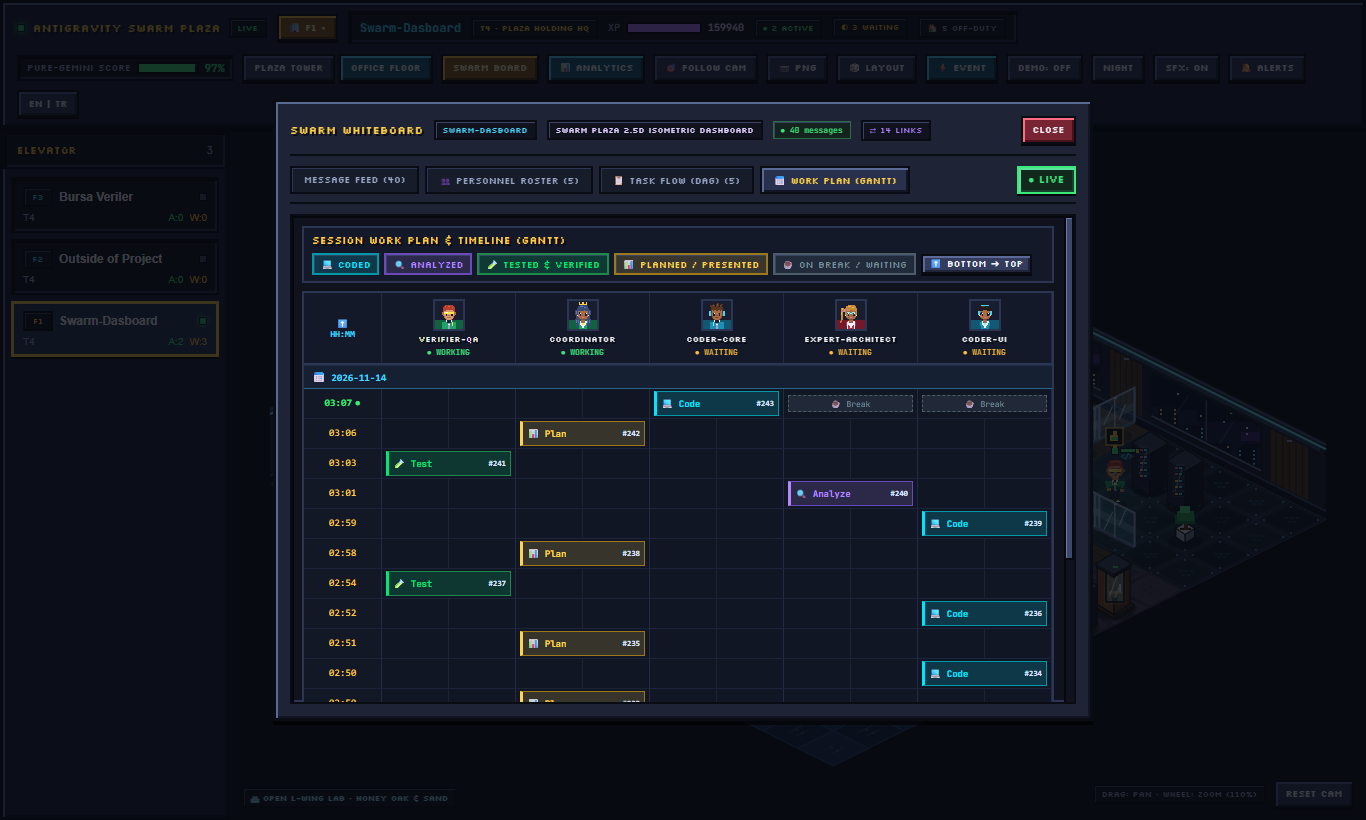
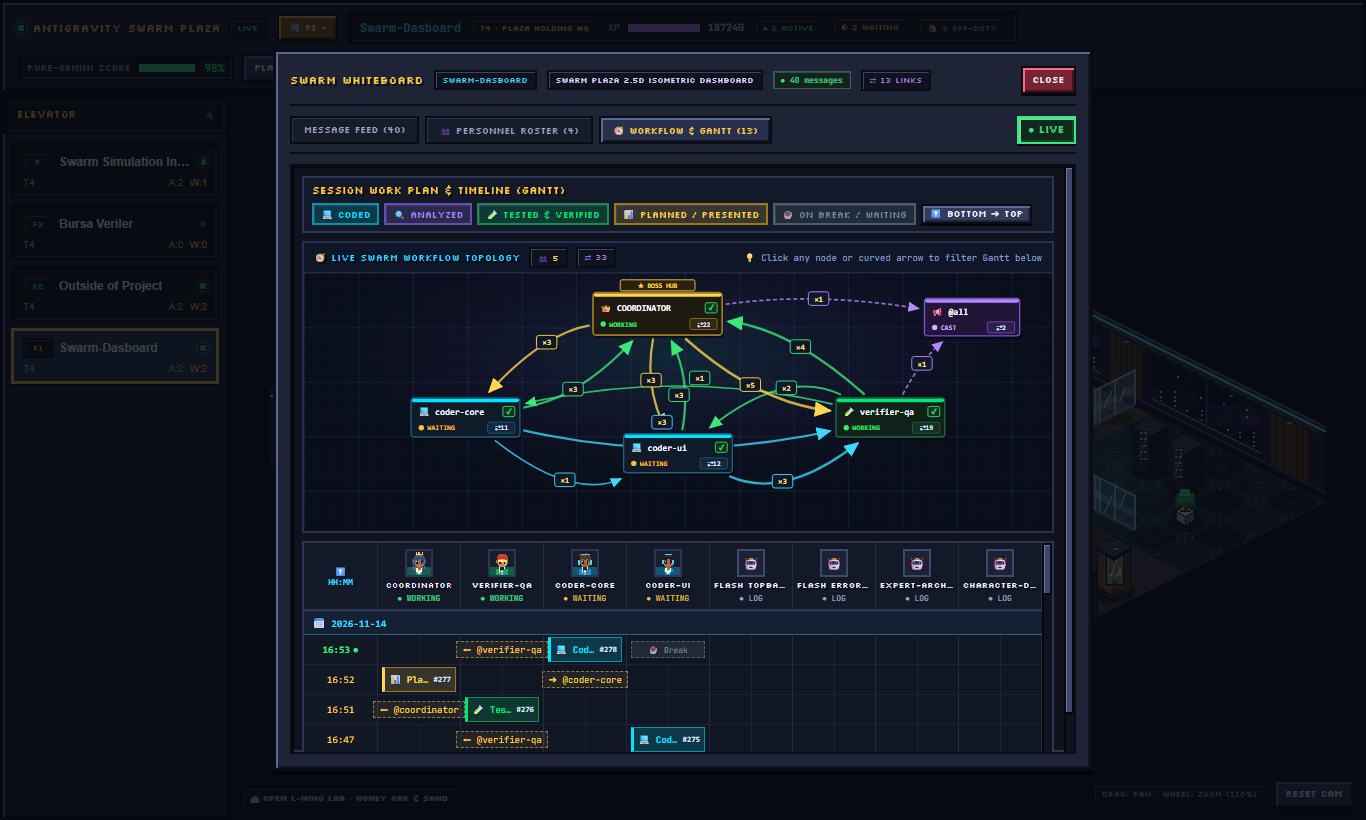
release: v1.3.2 unified Workflow & Gantt Bezier diagram, error inspection flow, and refreshed docs

diff --git a/README.tr.md b/README.tr.md
@@ -2,7 +2,7 @@
 
 [![CI](https://github.com/akinba/antigravity-swarm-plaza/actions/workflows/ci.yml/badge.svg)](https://github.com/akinba/antigravity-swarm-plaza/actions/workflows/ci.yml)
 [![Release](https://img.shields.io/github/v/release/akinba/antigravity-swarm-plaza?include_prereleases)](https://github.com/akinba/antigravity-swarm-plaza/releases)
-![Version](https://img.shields.io/badge/version-v1.3.1-ffd147)
+![Version](https://img.shields.io/badge/version-v1.3.2-ffd147)
 
 [🇬🇧 **English**](README.md) | 🇹🇷 **Türkçe** | [🇨🇳 **简体中文**](README.zh-CN.md)
 
@@ -118,7 +118,12 @@ flowchart LR
 
 ---
 
-## 🌟 Temel Yetenekler & Yenilikler (v1.3.1)
+## 🌟 Temel Yetenekler & Yenilikler (v1.3.2)
+
+- **🧭 Kavisli Bezier SVG Diyagramlı Birleşik İş Akışı & Dikey Gantt (`🧭 İŞ AKIŞI & GANTT`):**
+  - Etkileşimli `@mention` devir topolojisi ile Dikey Gantt zaman çizelgesini tek sekmede (`WorkflowDiagramSvg.tsx`) birleştirir; `★ BOSS HUB`, ayrı `@all` yayın düğümü, rol renkli ajan kartları, çakışmasız kuadratik Bezier okları (`×N` sayaç rozetleri) ve tıklandığında alttaki kaydırılabilir `HH:MM` Gantt satırlarını anında süzen çift yönlü senkronizasyon sunar.
+- **🚨 Tıklanabilir Üst Bar `! N` Hata Rozeti, Akıllı Uyarı Merkezi & `📜 Loglara Git` İnceleme Akışı:**
+  - Kattaki aktif çalışanlarda hata veya takılma olduğunda `TopHud` üzerinde yanıp sönen kırmızı **`! N`** rozeti görünür; tıklandığında `×N` gruplama, önem derecesi filtreleri ve **`🔍 AJANI İNCELE`** butonu içeren `AlertHistoryModal` açılır. İncelenen ajanın RPG Kartı en üstte kırmızı hata kutusu (`⚠ Hata tespit edildi • N ardışık hata`), `HP` rozeti ve `ERROR` satırlarını kırmızı vurgulayan **`📜 LOGLARA GİT`** butonu sunar.
 
 - **⚙ Oyun Tarzı Grafik & Sistem Ayarları + Sadeleştirilmiş Üst Bar:**
   - Tek tıkla seçilebilen hazır performans profilleri (**`⚡ Eski Akıcı 60 FPS`** varsayılan, `⚖ Dengeli 30 FPS`, `🌱 Güç Tasarrufu Eco`, `🔥 Ultra Native`), Çözünürlük Ölçeği (`0.75x` / `1.0x` / `2.0x` / `Native DPR`), Kenar Düzeltme (`Piksel Keskin` / `Yumuşak Smooth`), Kare Hızı Limiti (`Eco 14–24` / `30` / `60` / `Sınırsız`), Statik Mimari Önbelleği anahtarı ve **Canlı FPS** göstergesi içeren **`⚙ AYARLAR`** penceresi.

diff --git a/README.zh-CN.md b/README.zh-CN.md
@@ -4,7 +4,7 @@
 
 [![CI](https://github.com/akinba/antigravity-swarm-plaza/actions/workflows/ci.yml/badge.svg)](https://github.com/akinba/antigravity-swarm-plaza/actions/workflows/ci.yml)
 [![Release](https://img.shields.io/github/v/release/akinba/antigravity-swarm-plaza?include_prereleases)](https://github.com/akinba/antigravity-swarm-plaza/releases)
-![Version](https://img.shields.io/badge/version-v1.3.1-ffd147)
+![Version](https://img.shields.io/badge/version-v1.3.2-ffd147)
 ![Node](https://img.shields.io/badge/node-%3E%3D22.5.0-3be87a)
 ![License](https://img.shields.io/badge/license-MIT-3cd8ff)
 ![Sidecar](https://img.shields.io/badge/Sidecar-Ready-b07cff)
@@ -125,7 +125,12 @@ flowchart LR
 
 ---
 
-## 🌟 核心特性与新功能 (Core Features & v1.3.1)
+## 🌟 核心特性与新功能 (Core Features & v1.3.2)
+
+- **🧭 弧形贝塞尔 SVG 拓扑与纵向甘特图一体化视图 (`🧭 WORKFLOW & GANTT`)：**
+  - 将交互式 `@mention` 交接拓扑图与纵向甘特时间线合二为一（`WorkflowDiagramSvg.tsx`），采用半圆蓝图布局（`★ BOSS HUB`、`@all` 广播节点、按角色着色的智能体卡片）、防重叠二次贝塞尔箭头与 `×N` 频次徽章，并支持点击节点/连线实时联动筛选下方可滚动的 `HH:MM` 甘特行。
+- **🚨 顶部栏可点击 `! N` 告警徽章、智能告警中心与 `📜 GO TO LOGS` 排障流：**
+  - 当楼层活跃智能体出现错误或健康停滞时，`TopHud` 顶部栏会亮起红色 **`! N`** 徽章；点击即可打开支持 `×N` 分组与严重级别筛选的 `AlertHistoryModal`，点击 **`🔍 INSPECT AGENT`** 可直达对应智能体 RPG 卡片顶部的红色错误横幅（`⚠ Error detected • N consecutive errors`）、`HP` 徽章以及一键高亮 `ERROR` 日志行的 **`📜 GO TO LOGS`** 按钮。
 
 - **⚙ 游戏级图形与系统设置 + 精简顶部工具栏：**
   - 配备独立 **`⚙ SETTINGS`** 弹窗，支持一键切换性能预设（默认 **`⚡ 经典流畅 60 FPS`**、`⚖ 均衡 30 FPS`、`🌱 省电 Eco`、`🔥 极致 Native`）、分辨率缩放（`0.75x` / `1.0x` / `2.0x` / `Native DPR`）、抗锯齿（`像素锐利` / `平滑`）、帧率上限（`Eco 14–24` / `30` / `60` / `无限制`）、静态建筑缓存开关及 **实时 FPS** 指示器。

diff --git a/README.md b/README.md
@@ -2,7 +2,7 @@
 
 [![CI](https://github.com/akinba/antigravity-swarm-plaza/actions/workflows/ci.yml/badge.svg)](https://github.com/akinba/antigravity-swarm-plaza/actions/workflows/ci.yml)
 [![Release](https://img.shields.io/github/v/release/akinba/antigravity-swarm-plaza?include_prereleases)](https://github.com/akinba/antigravity-swarm-plaza/releases)
-![Version](https://img.shields.io/badge/version-v1.3.1-ffd147)
+![Version](https://img.shields.io/badge/version-v1.3.2-ffd147)
 
 🇬🇧 **English** | [🇹🇷 **Türkçe**](README.tr.md) | [🇨🇳 **简体中文**](README.zh-CN.md)
 
@@ -118,7 +118,12 @@ flowchart LR
 
 ---
 
-## 🌟 Key Features & What's New (v1.3.1)
+## 🌟 Key Features & What's New (v1.3.2)
+
+- **🧭 Unified Workflow & Vertical Gantt (`🧭 WORKFLOW & GANTT`) with Curved Bezier SVG Topology:**
+  - Combines the interactive `@mention` handoff topology and Vertical Gantt timeline into a single unified tab (`WorkflowDiagramSvg.tsx`), featuring an amphitheater blueprint layout (`★ BOSS HUB`, `@all` broadcast node, role-colored agent cards), non-overlapping quadratic Bezier arrows with `×N` frequency badges, and bidirectional click-to-filter sync with the scrollable `HH:MM` Gantt rows below.
+- **🚨 Clickable Topbar `! N` Error Badge, Smart Alert Center & `📜 Go to Logs` Inspection Flow:**
+  - Displays a live pulsing red **`! N`** badge in `TopHud` whenever active floor employees encounter errors or health stalls; clicking opens `AlertHistoryModal` with `×N` grouping, severity filters, and **`🔍 INSPECT AGENT`** to jump straight into the agent's RPG Card—complete with a top red error banner (`⚠ Error detected • N consecutive errors`), `HP` badge, and one-click **`📜 GO TO LOGS`** highlighting `ERROR` steps.
 
 - **⚙ Game-Style Graphics & System Settings + Decluttered Top Bar:**
   - Dedicated **`⚙ SETTINGS`** modal with one-click performance presets (**`⚡ Classic Smooth 60 FPS`** default, `⚖ Balanced 30 FPS`, `🌱 Power Saver Eco`, `🔥 Ultra Native`), Resolution Scale (`0.75x` / `1.0x` / `2.0x` / `Native DPR`), Anti-Aliasing (`Pixel Crisp` / `Smooth`), Frame Rate Limit (`Eco 14–24` / `30` / `60` / `Unlimited`), Static Architecture Cache toggle, and a **Live FPS** readout.
